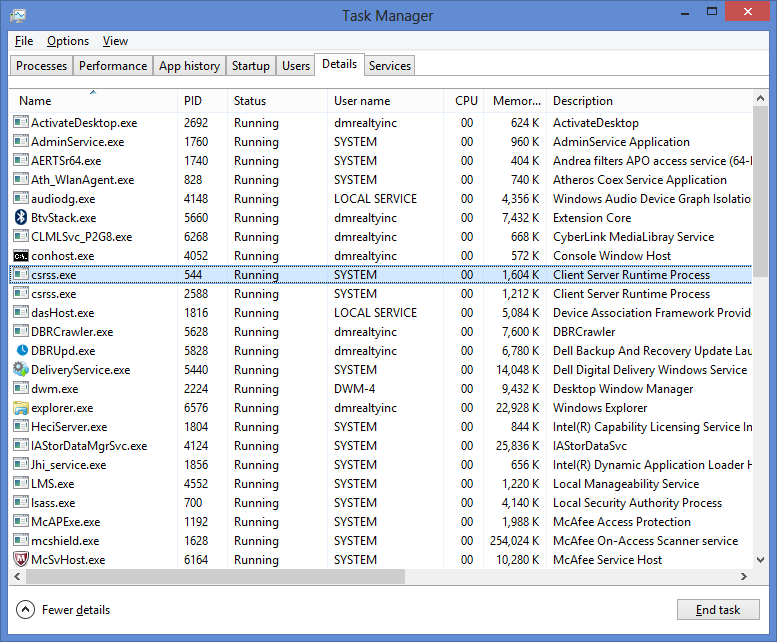
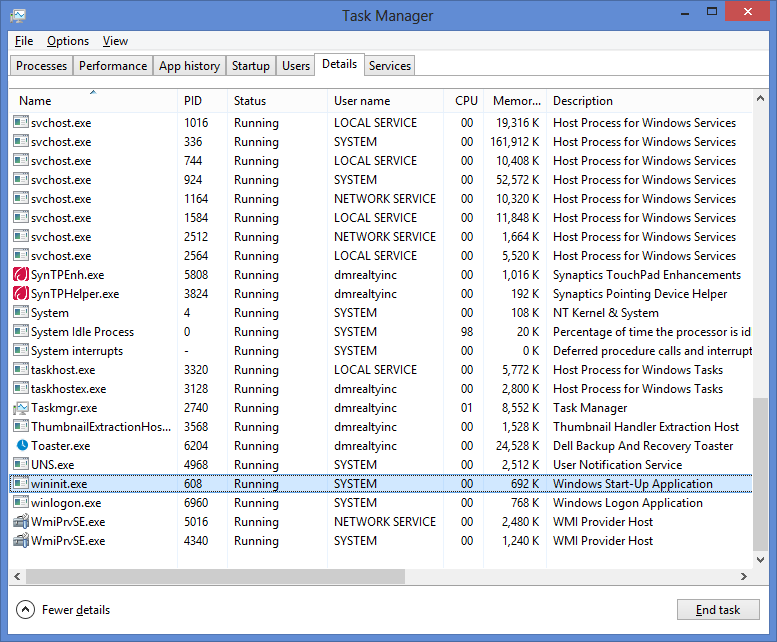
Corrected Windows first process for CSI: OS (Assignment 0206).

diff --git a/homework/csi-os/csi-os.html b/homework/csi-os/csi-os.html
@@ -166,36 +166,12 @@
                 </div>
                 
                 <div>
-                    
                     <h3>Windows</h3>
-                    
                     <p>
-                        The first process is a bit vague, but for windows I took that to mean the
-                        <em>Client/Server Runtime Subsystem</em>.
+                        Similarly for windows the <em>first process</em> is <code>wininit.exe</code>. Below is a
+                        screenshot of the task manager with the <code>wininit.exe</code> process highlighted.
                     </p>
-                    
-                    <blockquote>
-                        <p>
-                            Client/Server Runtime Subsystem, or csrss.exe, is a component of the Microsoft Windows NT 
-                            operating system that provides the user mode side of the Win32 subsystem and is included in
-                            Windows 2000, Windows XP, Windows Server 2003, Windows Vista, Windows Server 2008, 
-                            Windows 7, and Windows 8. Because most of the Win32 subsystem operations have been moved
-                            to kernel mode drivers, in Windows NT 4 and later, CSRSS is mainly responsible for Win32
-                            console handling and GUI shutdown. It is critical to system operation; therefore,
-                            terminating this process will result in system failure.
-                        </p>
-                        <footer>
-                            <cite title="Source Title">
-                                <a href="http://en.wikipedia.org/wiki/Client/Server_Runtime_Subsystem">
-                                    Wikipedia Client/Server Runtime Subsystem
-                                </a>
-                            </cite>
-                        </footer>
-                    </blockquote>
-                    
-                    <p> Below is a screen shot of the task manager with the csrss process highlighted.</p>
                     <img src="images/windows-first-process.png" alt="windows first process" class="img-rounded">
-                    
                 </div>
                                 
             </div>
